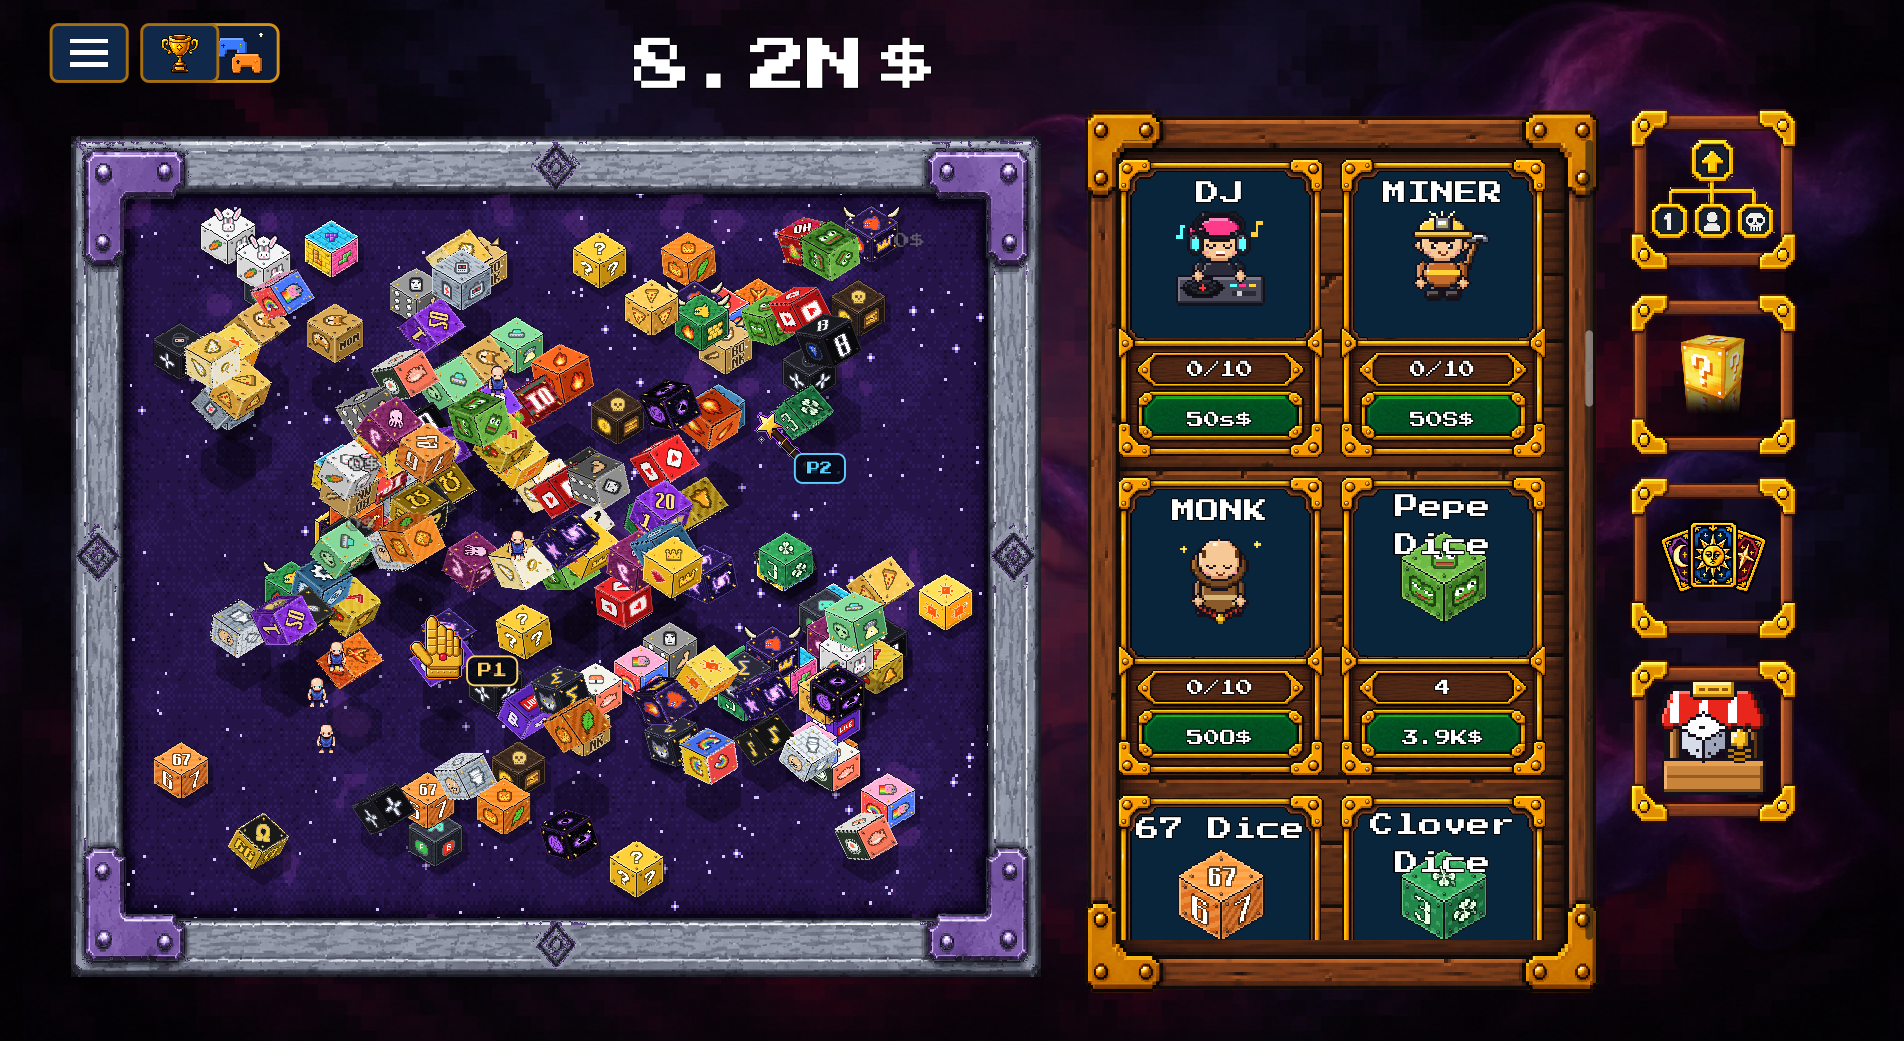
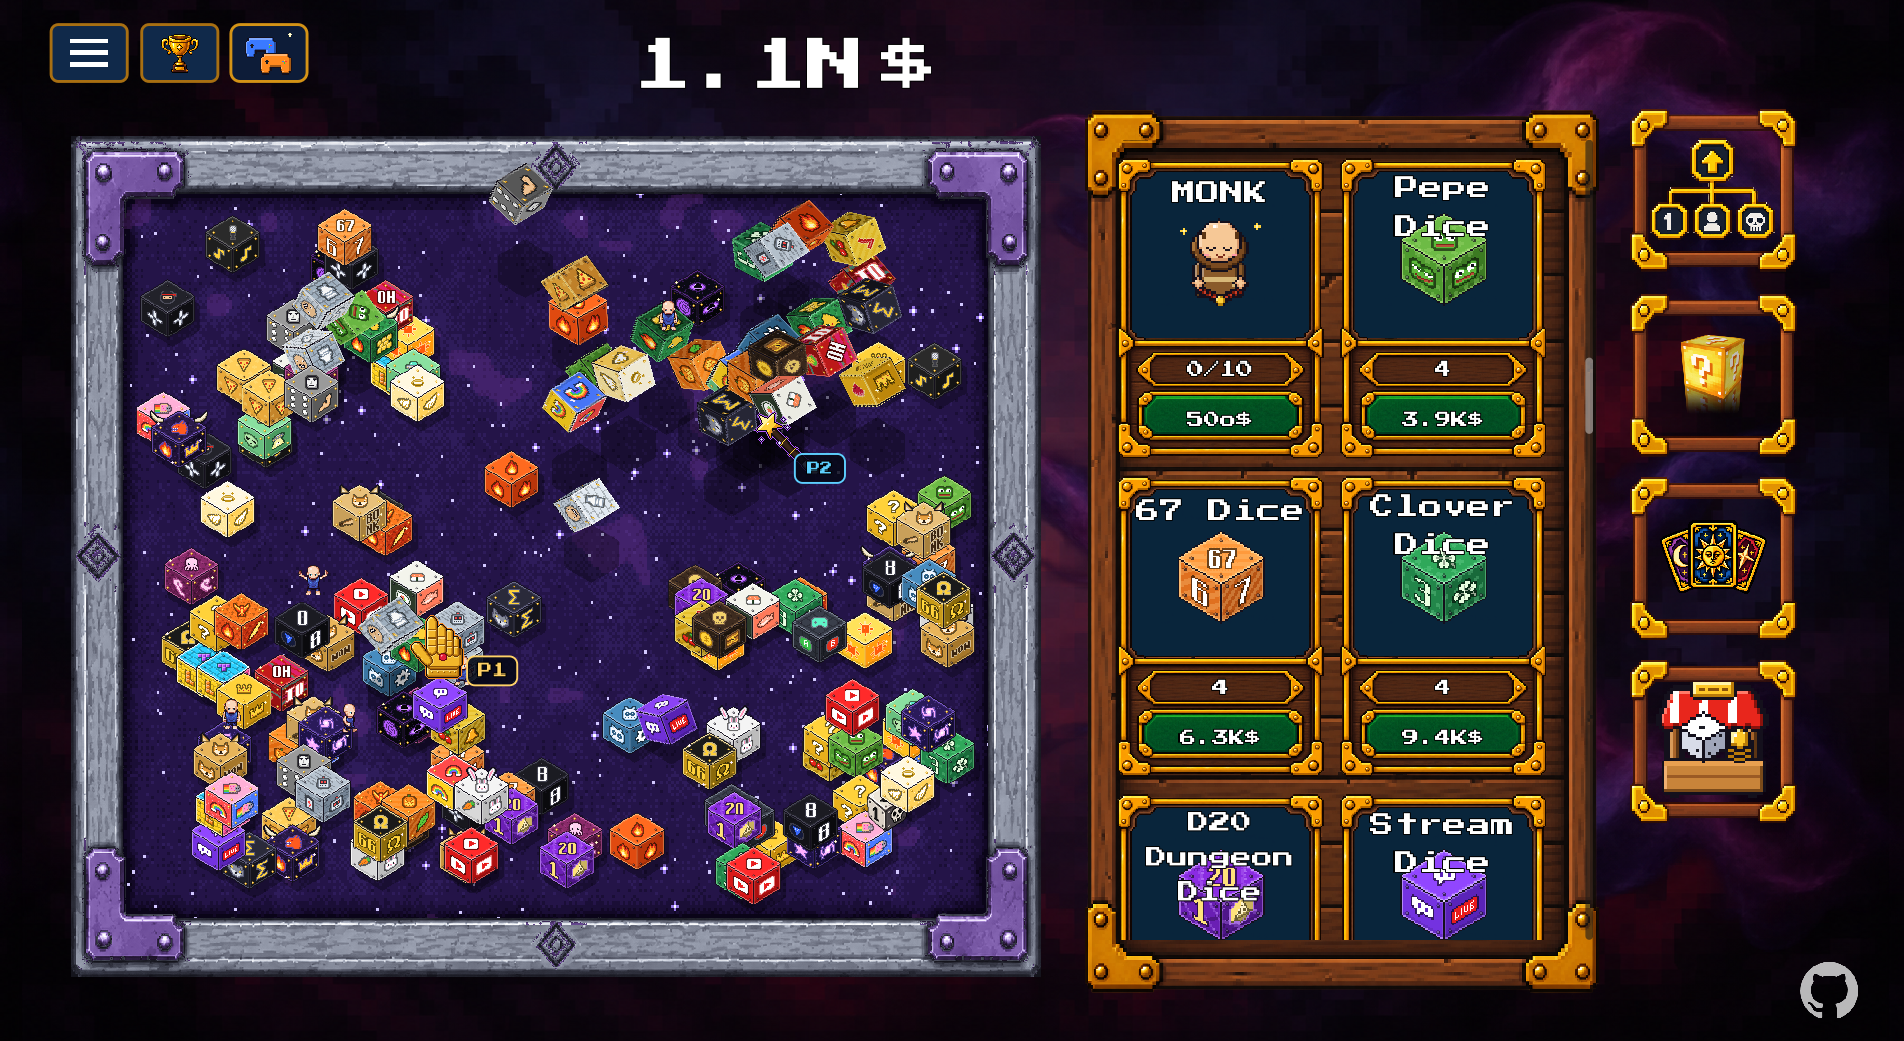
Dice Rush Extended 1.1.0
- 500 more dice on the table (limit 6,500 -> 7,000).
- Fix: the tarot shrine waited up to 30 s for a quiet table and then
  closed again; running rolls now finish at once, so it opens instantly.
- Fix: on crowded tables the small dice gathered in the middle; flights
  are now random steps that bounce off the edges, and saves from 1.0.0
  are spread out once when loaded.
- The coop button sits next to the achievements button again.
- GitHub logo also in the game (bottom right).
- Octillion is written with a small "o" (a capital O looked like a zero).

diff --git a/tools/make_screenshot.py b/tools/make_screenshot.py
@@ -100,8 +100,6 @@ def shoot():
     ev(HOST, "m().bdr.shop.buy('board', %d)" % BOARD_DESIGN)
     ev(HOST, "m().bdr.shop.buy('cursor', %d)" % HOST_CURSOR)
     ev(HOST, "m().set('money', 1.25e21)")
-    # show the first new dice in the shop
-    ev(HOST, "m().shop_scroll.set('scroll_vertical', int(m().shop_card_containers['pepe'].position.y) - 12)")
     ev(HOST, "m()._save_game(true)")
     print("host table:", ev(HOST, "m().dice.size()"), "dice, scale", ev(HOST, "m().bdr.dice_scale()"))
     ev(HOST, "m().bdr.coop_ui._host_now()")
@@ -117,6 +115,8 @@ def shoot():
     ev(GUEST, "m().bdr.coop.set('test_cursor', Vector2(%f, %f))" % P2_AT)
     ev(HOST, "m().bdr.coop_ui.set('show_local_cursor', true)")
     time.sleep(4.0)
+    # show the first new dice in the shop (the shop layout is settled by now)
+    ev(HOST, "m().shop_scroll.set('scroll_vertical', int(m().shop_card_containers['pepe'].position.y) - 12)")
     # a calm moment: no new effect lines / popups for a second, so the dice are easy to see
     ev(HOST, "n('/root/GameSession').set('visual_effects_enabled', false)")
     ev(HOST, "n('/root/GameSession').set('money_popups_enabled', false)")

diff --git a/src/patches/main/edits.py b/src/patches/main/edits.py
@@ -28,6 +28,10 @@ EDITS = [
     # coop client: leaving the game needs no save
     ('func _request_safe_action(action: String) -> void :\n',
      'func _request_safe_action(action: String) -> void :\n\tif bdr.is_coop_client() and bdr.coop_leave(action):\n\t\treturn\n'),
+    # tarot: finish the running rolls at once instead of waiting (up to 30 s) for a quiet table -
+    # on a crowded table there was always something rolling, so the shrine closed again
+    ('\t\twait_frames += 1\n\t\tif wait_frames % 30 == 0:\n\t\t\t_synchronize_active_roll_count()\n\t\tawait get_tree().process_frame\n',
+     '\t\twait_frames += 1\n\t\t_bdr_drain_world_for_menu()\n\t\tif wait_frames % 30 == 0:\n\t\t\t_synchronize_active_roll_count()\n\t\tawait get_tree().process_frame\n'),
 ]
 
 # Replaced everywhere in main.gd.

diff --git a/tools/build.py b/tools/build.py
@@ -136,7 +136,7 @@ def install(target, test=False):
     print("installed to", target)
 
 
-MOD_VERSION = "1.0.0"
+MOD_VERSION = "1.1.0"
 
 
 def make_release_zip():

diff --git a/README.md b/README.md
@@ -28,22 +28,38 @@ with thousands of dice on the table, and lets you play **coop with a friend**.
 - **67 new achievements**.
 - **Coop for 2 players** over the internet or LAN (IP address, Hamachi / Radmin VPN) or Steam invites.
   Both players see each other's mouse with its own design and a P1 / P2 tag.
+- **500 more dice on the table**: up to **7,000 dice** fit on the table (the original game stops at 6,500).
 - **Performance**: smooth even with thousands of dice (spatial grid, batched drawing, light-weight rolls,
-  background warm-up). From 200 dice on, all dice get smaller, so the table looks bigger.
-- **Big numbers, written short**: 1, 10, 100, 1K, 1.1K, 1M, 1.1M, 1B, 1T, 1q, 1Q ... 1d, then 1aa, 1ab ...
+  background warm-up). From 200 dice on, all dice get smaller and stay spread over the whole table.
+- **Big numbers, written short**: 1, 10, 100, 1K, 1.1K, 1M, 1.1M, 1B, 1T, 1q, 1Q, 1s, 1S, 1o, 1N, 1d,
+  then 1aa, 1ab ...
   never "e" notation.
 - **Balanced progression**: the 10 tiers unlock one after another. A shop dice of tier 2 or higher needs
   dice of the tier below first, so the game keeps you busy for hours instead of minutes.
 - **All 31 languages** of the game are supported.
 
+## Changelog
+
+**1.1.0**
+- **500 more dice on the table**: the limit went up from 6,500 to 7,000 dice.
+- Fixed: the tarot shrine loaded for a long time on a busy table and then went back to the table without
+  letting you offer dice. It now opens at once - rolling dice finish instantly and pay out as usual.
+- Fixed: on crowded tables the small dice gathered in the middle of the table. They now spread over the
+  whole table again; saves from 1.0.0 are spread out once when they are loaded.
+- The coop button now sits next to the achievements button (it was hidden behind it on wide screens).
+- The GitHub logo is now also shown in the game, at the bottom right.
+- Octillion is now written with a small "o" (a capital O looked like a zero in the game's font).
+
+**1.0.0** - first release.
+
 ## Install
 
-1. Download **`Dice-Rush-Extended-1.0.0.zip`** from the [latest release](https://github.com/Minnteee/Dice-Rush-Extended/releases/latest).
+1. Download **`Dice-Rush-Extended-1.1.0.zip`** from the [latest release](https://github.com/Minnteee/Dice-Rush-Extended/releases/latest).
 2. Extract it into your DICE RUSH game folder, the folder that contains `Dice Rush.exe`
    (Steam: right click DICE RUSH -> Manage -> Browse local files).
    You should now have `override.cfg`, the folder `DiceRushExtended` and `Uninstall Dice Rush Extended.bat`
    next to `Dice Rush.exe`.
-3. Start the game as usual. The main menu shows **"Dice Rush Extended 1.0.0"** at the bottom left.
+3. Start the game as usual. The main menu shows **"Dice Rush Extended 1.1.0"** at the bottom left.
 
 **Uninstall:** run `Uninstall Dice Rush Extended.bat` (or delete `override.cfg` and the `DiceRushExtended`
 folder). Your saves are not deleted. The original game cannot store more than 9.2e18 money, so a modded
@@ -83,7 +99,7 @@ DICE RUSH **v1.0.0 (Full)** - Godot 4.7.1.
 
 ## Mod version
 
-Dice Rush Extended **1.0.0** - final version.
+Dice Rush Extended **1.1.0** - final version.
 
 ## Players
 

diff --git a/docs/BUILDING.md b/docs/BUILDING.md
@@ -44,7 +44,7 @@ python tools\build.py --release
    from `tools/i18n/strings*.py`. The other 29 languages are the JSON files in `src/bdr/i18n/`;
    `tools/i18n/check_translations.py` checks that every language has every key.
 3. Everything is packed into `dist/DiceRushExtended/DiceRushExtended.pck`; `--release` also writes
-   `dist/Dice-Rush-Extended-1.0.0.zip`.
+   `dist/Dice-Rush-Extended-<version>.zip`.
 
 Install options:
 
